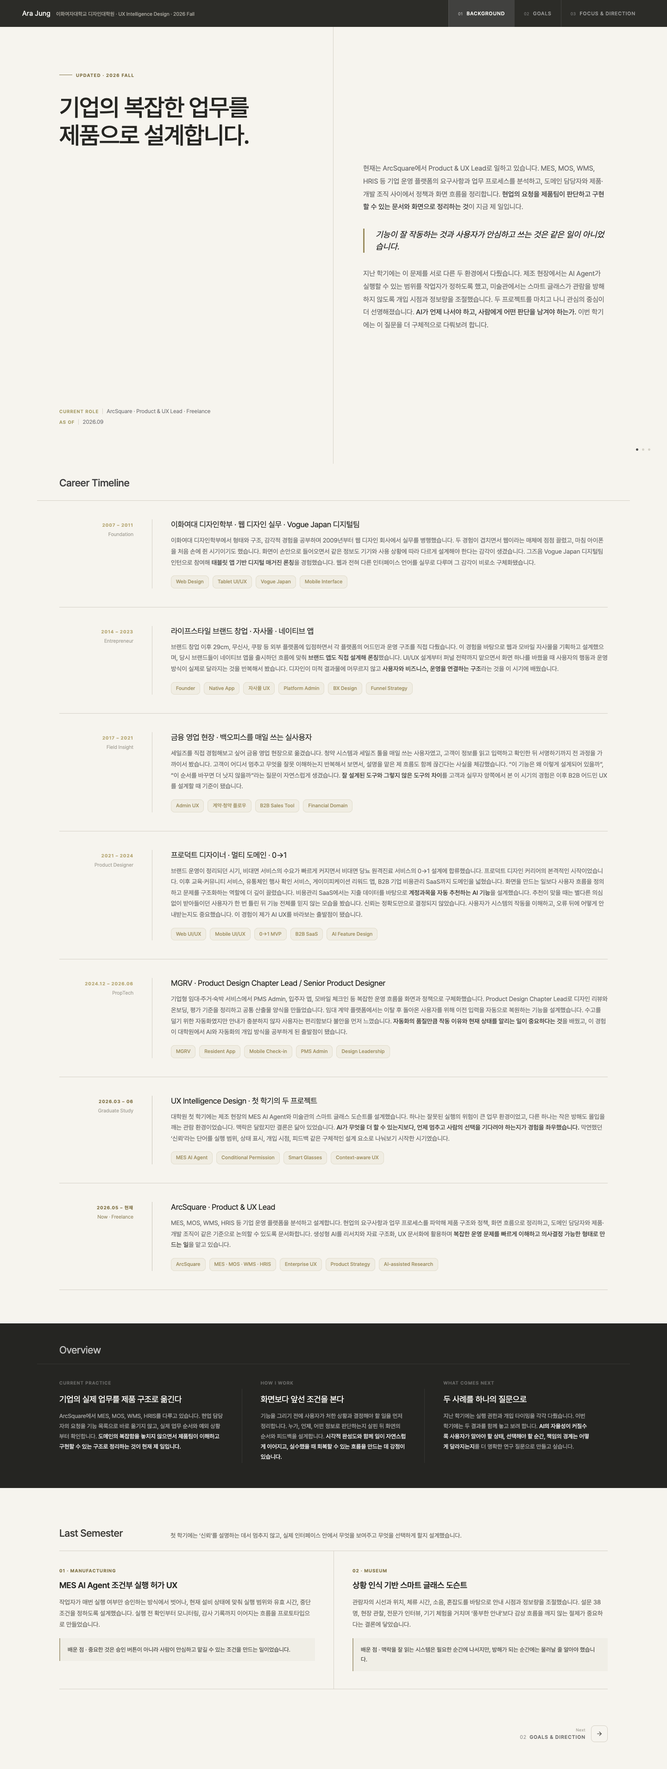
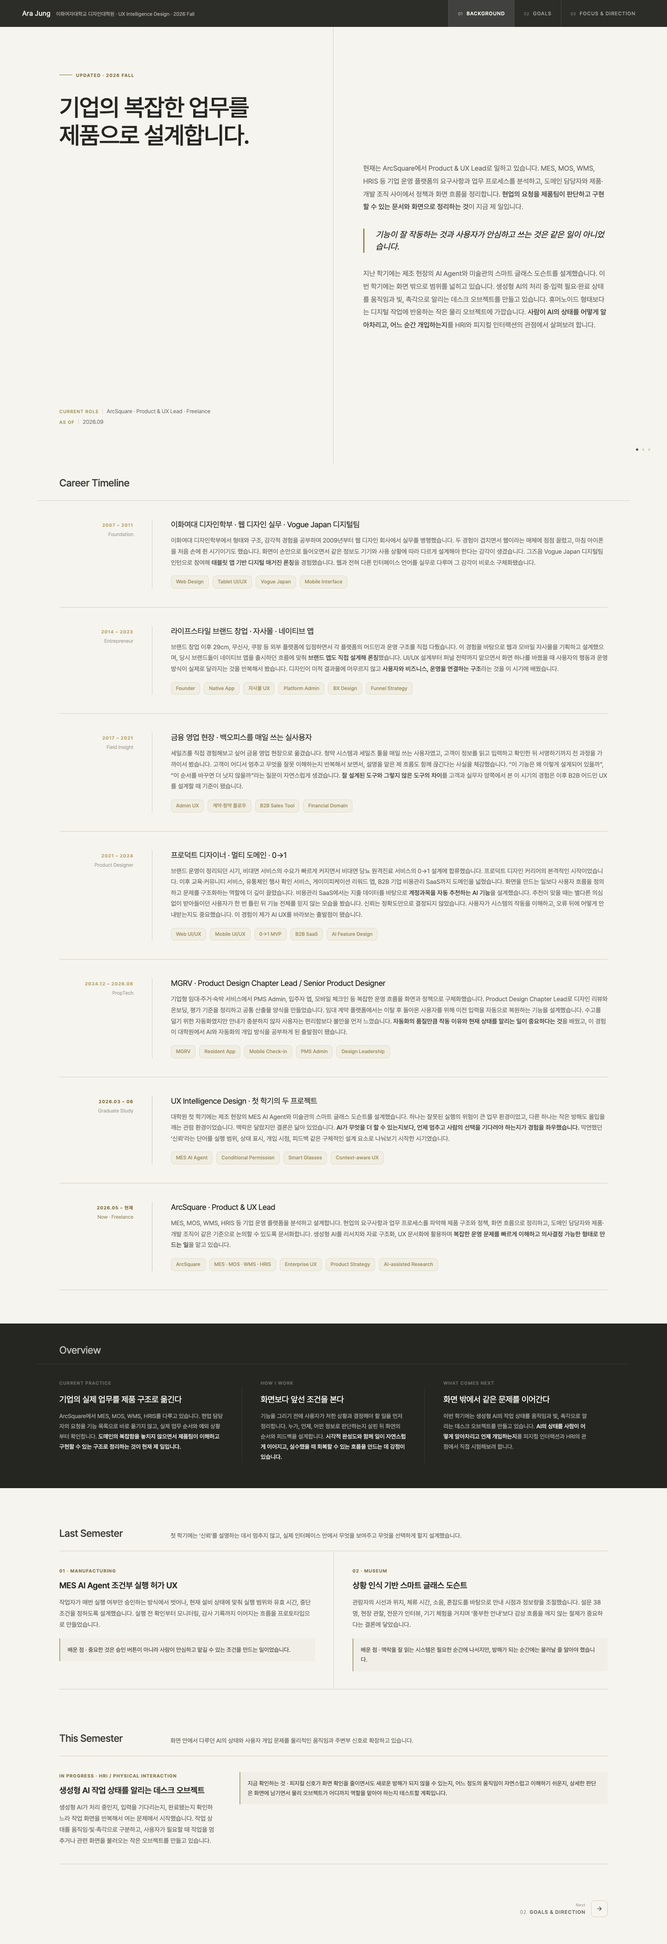
Add robotics and HRI direction

diff --git a/index.html b/index.html
@@ -1206,6 +1206,20 @@
       padding-right: 0;
     }
 
+    .project-update-grid.single { grid-template-columns: 1fr; }
+
+    .project-update-grid.single .project-update {
+      display: grid;
+      grid-template-columns: minmax(220px, .75fr) minmax(0, 1.75fr);
+      gap: 48px;
+      padding-right: 0;
+    }
+
+    .project-update-grid.single .project-learning {
+      margin-top: 0;
+      align-self: start;
+    }
+
     .project-meta {
       margin-bottom: 12px;
       color: var(--accent);
@@ -1295,6 +1309,7 @@
       .project-update-grid { grid-template-columns: 1fr; }
       .project-update, .project-update + .project-update { padding: 28px 0; border-left: 0; }
       .project-update + .project-update { border-top: 1px solid var(--rule); }
+      .project-update-grid.single .project-update { grid-template-columns: 1fr; gap: 18px; }
       .goals-hero, .targets-hero { gap: 24px; padding-top: 52px; }
       .goals-quote { padding: 0 22px 44px; margin-top: 24px; }
       .goals-quote-inner { font-size: 16px; }
@@ -1375,7 +1390,7 @@
         기능이 잘 작동하는 것과 사용자가 안심하고 쓰는 것은 같은 일이 아니었습니다.
       </div>
       <div class="hero-intro">
-        지난 학기에는 이 문제를 서로 다른 두 환경에서 다뤘습니다. 제조 현장에서는 AI Agent가 실행할 수 있는 범위를 작업자가 정하도록 했고, 미술관에서는 스마트 글래스가 관람을 방해하지 않도록 개입 시점과 정보량을 조절했습니다. 두 프로젝트를 마치고 나니 관심의 중심이 더 선명해졌습니다. <strong style="color:#3d3d3d">AI가 언제 나서야 하고, 사람에게 어떤 판단을 남겨야 하는가.</strong> 이번 학기에는 이 질문을 더 구체적으로 다뤄보려 합니다.
+        지난 학기에는 제조 현장의 AI Agent와 미술관의 스마트 글래스 도슨트를 설계했습니다. 이번 학기에는 화면 밖으로 범위를 넓히고 있습니다. 생성형 AI의 처리 중·입력 필요·완료 상태를 움직임과 빛, 촉각으로 알리는 데스크 오브젝트를 만들고 있습니다. 휴머노이드 형태보다는 디지털 작업에 반응하는 작은 물리 오브젝트에 가깝습니다. <strong style="color:#3d3d3d">사람이 AI의 상태를 어떻게 알아차리고, 어느 순간 개입하는지</strong>를 HRI와 피지컬 인터랙션의 관점에서 살펴보려 합니다.
       </div>
     </div>
   </div>
@@ -1551,8 +1566,8 @@
         </div>
         <div class="who-card">
           <div class="who-card-num">What comes next</div>
-          <div class="who-card-title">두 사례를 하나의 질문으로</div>
-          <div class="who-card-body">지난 학기에는 실행 권한과 개입 타이밍을 각각 다뤘습니다. 이번 학기에는 두 결과를 함께 놓고 보려 합니다. <strong style="color:rgba(255,255,255,0.85)">AI의 자율성이 커질수록 사용자가 알아야 할 상태, 선택해야 할 순간, 책임의 경계는 어떻게 달라지는지</strong>를 더 명확한 연구 질문으로 만들고 싶습니다.</div>
+          <div class="who-card-title">화면 밖에서 같은 문제를 이어간다</div>
+          <div class="who-card-body">이번 학기에는 생성형 AI의 작업 상태를 움직임과 빛, 촉각으로 알리는 데스크 오브젝트를 만들고 있습니다. <strong style="color:rgba(255,255,255,0.85)">AI의 상태를 사람이 어떻게 알아차리고 언제 개입하는지</strong>를 피지컬 인터랙션과 HRI의 관점에서 직접 시험해보려 합니다.</div>
         </div>
       </div>
     </div>
@@ -1575,6 +1590,23 @@
         <h3 class="project-title">상황 인식 기반 스마트 글래스 도슨트</h3>
         <p class="project-body">관람자의 시선과 위치, 체류 시간, 소음, 혼잡도를 바탕으로 안내 시점과 정보량을 조절했습니다. 설문 38명, 현장 관찰, 전문가 인터뷰, 기기 체험을 거치며 ‘풍부한 안내’보다 감상 흐름을 깨지 않는 절제가 중요하다는 결론에 닿았습니다.</p>
         <p class="project-learning">배운 점 · 맥락을 잘 읽는 시스템은 필요한 순간에 나서지만, 방해가 되는 순간에는 물러날 줄 알아야 했습니다.</p>
+      </article>
+    </div>
+  </section>
+
+  <section class="semester-section" aria-labelledby="current-semester-title">
+    <div class="semester-section-head">
+      <h2 class="semester-section-title" id="current-semester-title">This Semester</h2>
+      <p class="semester-section-desc">화면 안에서 다루던 AI의 상태와 사용자 개입 문제를 물리적인 움직임과 주변부 신호로 확장하고 있습니다.</p>
+    </div>
+    <div class="project-update-grid single">
+      <article class="project-update">
+        <div>
+          <div class="project-meta">In Progress · HRI / Physical Interaction</div>
+          <h3 class="project-title">생성형 AI 작업 상태를 알리는 데스크 오브젝트</h3>
+          <p class="project-body">생성형 AI가 처리 중인지, 입력을 기다리는지, 완료됐는지 확인하느라 작업 화면을 반복해서 여는 문제에서 시작했습니다. 작업 상태를 움직임·빛·촉각으로 구분하고, 사용자가 필요할 때 작업을 멈추거나 관련 화면을 불러오는 작은 오브젝트를 만들고 있습니다.</p>
+        </div>
+        <p class="project-learning">지금 확인하는 것 · 피지컬 신호가 화면 확인을 줄이면서도 새로운 방해가 되지 않을 수 있는지, 어느 정도의 움직임이 자연스럽고 이해하기 쉬운지, 상세한 판단은 화면에 남기면서 물리 오브젝트가 어디까지 역할을 맡아야 하는지 테스트할 계획입니다.</p>
       </article>
     </div>
   </section>
@@ -1604,14 +1636,14 @@
       지난 학기의 작업을<br />다음 질문으로 이어갑니다.
     </h1>
     <div class="goals-intro">
-      첫 학기를 시작할 때는 AI가 개입하는 경험에서 신뢰가 어떻게 생기는지 알고 싶었습니다. 두 프로젝트를 끝낸 지금은 질문이 조금 더 구체적입니다. 제조 현장에서는 실행 범위와 책임의 경계가 중요했고, 미술관에서는 개입 시점과 절제가 중요했습니다. <strong style="color:#3d3d3d">이번 학기에는 이 차이를 비교하면서 상황에 따라 달라지는 AI 개입의 기준을 정리해보려 합니다.</strong>
+      첫 학기에는 AI가 개입하는 경험에서 신뢰가 어떻게 생기는지 살펴봤습니다. 제조 현장에서는 실행 범위와 책임의 경계가 중요했고, 미술관에서는 개입 시점과 절제가 중요했습니다. 이번 학기에는 질문을 화면 밖으로 가져갑니다. <strong style="color:#3d3d3d">생성형 AI의 상태를 물리적인 움직임으로 알리고 사람이 필요할 때 개입하는 데스크 오브젝트를 만들며, HRI와 피지컬 인터랙션을 직접 다뤄보려 합니다.</strong>
     </div>
   </div>
 
   <div class="goals-quote">
     <div class="goals-quote-spacer"></div>
     <div class="goals-quote-inner">
-좋은 자동화는 모든 일을 대신하지 않습니다. 사람이 판단해야 할 순간을 알아볼 수 있게 남겨둡니다.
+AI가 화면 밖으로 나오면, 상태를 알리는 방식과 사람이 개입하는 방법도 달라져야 합니다.
     </div>
   </div>
 
@@ -1628,23 +1660,23 @@
       <div class="timeline-line"></div>
       <div class="timeline-content">
         <div class="goal-label" style="color:#b8aa78">This Semester · 2026 Fall</div>
-        <div class="timeline-title">두 프로젝트에서 나온 기준을 하나의 연구 질문으로 묶기</div>
+        <div class="timeline-title">화면 밖에서 AI의 상태와 사용자 개입을 설계하기</div>
         <div class="timeline-body">
-          MES AI Agent에서는 실행 범위, 유효 시간, 중단 조건을 직접 정하게 했습니다. 스마트 글래스 도슨트에서는 시선과 체류 시간, 소음과 혼잡도에 따라 안내 강도를 조절했습니다. 이번 학기에는 두 결과를 나란히 놓고 <strong>업무의 위험도와 사용자의 몰입 상태에 따라 필요한 통제와 피드백이 어떻게 달라지는지</strong> 정리할 계획입니다. 실무에서 겪는 자동화 사례도 같은 틀로 기록해보려 합니다.
+          생성형 AI의 작업 상태를 확인하느라 화면을 반복해서 여는 문제에서 시작했습니다. 처리 중·입력 필요·완료·오류 상태를 작은 움직임과 빛, 촉각으로 구분하고, 필요할 때 작업을 멈추거나 관련 화면을 불러오는 오브젝트를 만들고 있습니다. <strong>피지컬 신호가 화면 확인을 줄이면서도 새로운 방해가 되지 않을 수 있는지</strong>, 로봇과 사람 사이에서 상태와 개입 권한을 어떻게 나눌지 테스트할 계획입니다.
         </div>
         <div class="timeline-tags">
-          <span class="ttag">두 사례 비교</span>
-          <span class="ttag">개입 수준 정리</span>
-          <span class="ttag">상태·경계·피드백</span>
-          <span class="ttag">실무 사례 기록</span>
+          <span class="ttag">Human-Robot Interaction</span>
+          <span class="ttag">Physical Interaction</span>
+          <span class="ttag">Ambient Feedback</span>
+          <span class="ttag">Embodied AI</span>
         </div>
         <div class="goal-actions-grid" style="margin-top:16px">
           <div class="goal-action-block">
             <div class="goal-action-label">Related Research</div>
             <div class="goal-action-chips research-list">
-              <span class="goal-action-item research"><a href="https://arxiv.org/abs/2302.02187" target="_blank" rel="noopener">Appropriate Reliance on AI Advice (Schemmer et al., 2023)</a></span>
-              <span class="goal-action-item research"><a href="https://arxiv.org/abs/2110.10790" target="_blank" rel="noopener">Human-Centered Explainable AI (Liao & Varshney, 2021)</a></span>
-              <span class="goal-action-item research"><a href="https://journals.sagepub.com/doi/10.1518/hfes.46.1.50_30392" target="_blank" rel="noopener">Trust in Automation (Lee & See, 2004)</a></span>
+              <span class="goal-action-item research"><a href="https://www.microsoft.com/en-us/research/publication/ai-at-your-fingertips-wearable-ring-as-a-low-friction-interface-for-agentic-ai/" target="_blank" rel="noopener">AI at your Fingertips (Microsoft Research)</a></span>
+              <span class="goal-action-item research"><a href="https://arxiv.org/abs/2602.16844" target="_blank" rel="noopener">Overseeing Agents Without Constant Oversight</a></span>
+              <span class="goal-action-item research"><a href="https://arxiv.org/abs/2507.22358" target="_blank" rel="noopener">Magentic-UI: Towards Human-in-the-loop Agentic Systems</a></span>
             </div>
           </div>
         </div>
@@ -1661,7 +1693,7 @@
         <div class="goal-label" style="color:#998c5d">Next Step · Mid-term</div>
         <div class="timeline-title">AI가 개입하는 제품을 팀 단위로 설계할 수 있는 디자이너</div>
         <div class="timeline-body">
-          제품에 AI 기능 하나를 더하는 일보다, 팀이 같은 기준으로 기능의 범위와 실패 상황을 판단하게 만드는 일에 관심이 있습니다. 어떤 결정은 AI에 맡기고 어떤 결정은 사람에게 남길지, 잘못됐을 때 어떻게 알리고 되돌릴지를 기획과 개발 단계부터 함께 다루고 싶습니다. <strong>개인의 감각에 머물던 판단을 팀이 함께 사용할 수 있는 원칙과 리뷰 기준으로 만드는 것</strong>이 중기 목표입니다.
+          화면 속 AI 기능뿐 아니라 로봇과 반응형 오브젝트처럼 물리적으로 존재하는 인터페이스까지 다루고 싶습니다. 어떤 결정은 시스템에 맡기고 어떤 순간에는 사람을 불러야 하는지, 잘못됐을 때 어떻게 알리고 멈출지를 기획과 개발 단계부터 함께 살펴보려 합니다. <strong>개인의 감각에 머물던 판단을 팀이 함께 사용할 수 있는 원칙과 리뷰 기준으로 만드는 것</strong>이 중기 목표입니다.
         </div>
         <div class="timeline-tags">
           <span class="ttag">AI UX 리뷰 기준</span>
@@ -1690,15 +1722,15 @@
       <div class="timeline-line"></div>
       <div class="timeline-content">
         <div class="goal-label" style="color:#695e43">Long-term · Research</div>
-        <div class="timeline-title">실무에서 찾은 문제를 Human-AI Interaction 연구로 이어가기</div>
+        <div class="timeline-title">실무에서 찾은 문제를 Human-AI Interaction과 HRI 연구로 이어가기</div>
         <div class="timeline-body">
-          실무에서 반복해서 만난 장면을 경험담으로만 남기고 싶지는 않습니다. AI가 실행을 제안하거나 먼저 행동할 때, 사람의 신뢰와 통제감이 어떤 조건에서 달라지는지 연구하고 싶습니다. 박사과정에서는 <strong>AI가 개입하는 의사결정, 설명 가능한 인터페이스, 화면이 줄어든 환경의 피드백 방식</strong>을 다루고, 그 결과를 다시 실제 제품에 적용하는 일을 이어가고 싶습니다.
+          실무에서 반복해서 만난 장면을 경험담으로만 남기고 싶지는 않습니다. AI Agent나 로봇이 먼저 행동할 때 사람이 상태를 어떻게 이해하고, 어느 순간 개입하며, 책임의 경계를 어디에 두는지 연구하고 싶습니다. 박사과정에서는 <strong>Human-AI Interaction, HRI, Embodied AI, 화면이 줄어든 환경의 피드백 방식</strong>을 다루고, 그 결과를 다시 실제 제품과 프로토타입에 적용하는 일을 이어가고 싶습니다.
         </div>
         <div class="timeline-tags">
           <span class="ttag">Human-AI Interaction</span>
-          <span class="ttag">설명과 통제감</span>
+          <span class="ttag">Human-Robot Interaction</span>
+          <span class="ttag">Embodied AI</span>
           <span class="ttag">연구 질문 구체화</span>
-          <span class="ttag">박사과정 준비</span>
         </div>
         <div class="goal-actions-grid" style="margin-top:16px">
           <div class="goal-action-block">
@@ -1745,16 +1777,16 @@
 <div class="page" id="targets">
 
   <div class="targets-hero">
-    <h1 class="targets-headline">언제 개입하고,<br />어디까지 맡길 것인가.</h1>
+    <h1 class="targets-headline">AI Agent와 로봇의<br />사용자 경험을 연구합니다.</h1>
     <div class="goals-intro">
-      지난 학기의 두 프로젝트는 AI가 사람보다 먼저 보고 판단하는 상황을 다뤘습니다. 제조 현장에서는 잘못된 실행을 막을 경계가 필요했고, 미술관에서는 지나친 안내를 막을 절제가 필요했습니다. <strong style="color:#3d3d3d">앞으로도 기술의 능력보다, 그 능력을 사람이 편안하게 받아들일 수 있는 조건을 설계하고 싶습니다.</strong>
+      제조 현장의 AI Agent, 미술관의 스마트 글래스, 이번 학기의 데스크 오브젝트는 형태가 서로 다릅니다. 하지만 시스템이 먼저 움직일 때 사람이 그 상태를 알아차리고 필요하면 개입해야 한다는 점은 같습니다. <strong style="color:#3d3d3d">화면 속 인터페이스뿐 아니라 움직임과 거리, 빛과 촉각으로 소통하는 로봇과 피지컬 AI까지 관심을 넓히고 있습니다.</strong>
     </div>
   </div>
 
   <div class="goals-quote">
     <div class="goals-quote-spacer"></div>
     <div class="goals-quote-inner">
-설명은 많을수록 좋은 게 아니었습니다. 필요한 순간에, 판단에 필요한 만큼 보여주는 편이 더 나았습니다.
+로봇은 꼭 사람 모양일 필요가 없습니다. 상태를 드러내고 사람이 개입할 수 있게 만드는 것도 중요한 HRI 문제입니다.
     </div>
   </div>
 
@@ -1791,8 +1823,8 @@
             <line x1="7.5" y1="8.5" x2="12.5" y2="8.5"/><line x1="7.5" y1="11.5" x2="11" y2="11.5"/>
           </svg>
         </div>
-        <div class="focus-cell-title">Understandable Feedback</div>
-        <div class="focus-cell-desc">사용자에게 필요한 것은 모델의 모든 설명이 아니라 지금 무슨 일이 일어났고, 왜 이런 결과가 나왔으며, 다음에 무엇을 할 수 있는지에 대한 답입니다. 복잡한 작동 원리를 판단에 필요한 정보로 바꾸고, 실패했을 때 회복할 수 있는 흐름을 설계합니다.</div>
+        <div class="focus-cell-title">HRI & Embodied Interaction</div>
+        <div class="focus-cell-desc">로봇과 반응형 오브젝트가 의도와 상태를 움직임으로 어떻게 드러내는지, 사람은 그 신호를 어떻게 해석하고 반응하는지에 관심이 있습니다. 사람처럼 보이는 형태보다 역할과 거리, 움직임, 개입 방법이 관계를 어떻게 만드는지 살펴봅니다.</div>
       </div>
       <div class="focus-cell">
         <div class="focus-cell-icon">
@@ -1804,8 +1836,8 @@
             <path d="M4.93 19.07a10 10 0 0 1 0-14.14"/>
           </svg>
         </div>
-        <div class="focus-cell-title">Multimodal & Ambient UX</div>
-        <div class="focus-cell-desc">화면이 작아지거나 사라지면 피드백은 더 신중해야 합니다. 시각, 음성, 촉각 가운데 어느 채널을 쓸지, 얼마나 강하게 알릴지, 사용자가 개입을 거절하는 방법은 무엇인지 살펴봅니다. 스마트 글래스 프로젝트에서 시작한 질문을 생활 공간과 업무 환경으로 넓혀보고 싶습니다.</div>
+        <div class="focus-cell-title">Physical & Ambient Feedback</div>
+        <div class="focus-cell-desc">화면이 작아지거나 사라지면 상태를 알리는 방식이 달라져야 합니다. 움직임, 빛, 음성, 촉각 가운데 어떤 신호가 적절한지, 어느 정도의 강도가 방해 없이 알아차릴 수 있는 수준인지 직접 만들고 테스트합니다.</div>
       </div>
     </div>
   </div>
@@ -1861,19 +1893,20 @@ Google PAIR의 People + AI Guidebook은 AI 기능을 설계할 때 제가 자주
     <div class="org-row c3">
       <div class="org-index">
         <div class="org-index-mark">03</div>
-        <div class="org-index-name">HCI Research /<br />Human-Centered AI</div>
+        <div class="org-index-name">HCI / HRI Research</div>
       </div>
       <div class="org-main">
         <div class="org-main-body" style="margin-bottom:0">
-          장기적으로는 AI가 개입하는 의사결정과 자동화 수용의 조건을 HCI, 인지심리학, 행동과학의 관점에서 공부하고 싶습니다. 실무에서 ‘사용자가 불안해했다’고 기록한 장면을 연구에서는 관찰하고 비교할 수 있는 질문으로 바꾸고, 왜 그런 반응이 생겼는지 설명할 수 있는 근거를 쌓으려 합니다.
+          장기적으로는 AI가 개입하는 의사결정과 자동화 수용의 조건을 HCI와 HRI, 인지심리학, 행동과학의 관점에서 공부하고 싶습니다. 화면 속 Agent뿐 아니라 물리적으로 움직이고 공간을 공유하는 로봇까지 범위를 넓혀, 사람의 신뢰와 개입 방식이 어떻게 달라지는지 연구하고 싶습니다.
         </div>
         <div class="org-main-tags">
           <span class="org-badge">HCI Research</span>
+          <span class="org-badge">HRI</span>
           <span class="org-badge">PhD Path</span>
         </div>
         <div class="org-contrib" style="margin-top:20px">
           <div class="org-contrib-label">How I am preparing</div>
-          <div class="org-contrib-body">대학원 프로젝트와 실무 사례를 같은 질문으로 기록하고, 관련 논문을 읽으며 연구 방법을 익히고 있습니다. 이 기록을 쌓아 장기적으로 박사과정 지원까지 이어갈 계획입니다.</div>
+          <div class="org-contrib-body">대학원에서 AI 작업 상태를 표현하는 피지컬 오브젝트를 만들며 HRI 사례와 사용자 개입 방식을 조사하고 있습니다. 실무 사례와 프로토타입 기록을 쌓아 장기적으로 박사과정 지원까지 이어갈 계획입니다.</div>
         </div>
       </div>
     </div>
@@ -1886,10 +1919,11 @@ Google PAIR의 People + AI Guidebook은 AI 기능을 설계할 때 제가 자주
       <div class="org-main">
         <div class="org-main-title">연구와 실제 시스템 설계가 가까이 있는 환경</div>
         <div class="org-main-body">
-          CMU HCII는 사람과 기술의 관계를 연구하면서 결과를 실제 시스템과 프로토타입으로 검증하는 환경이라는 점이 매력적입니다. 저 역시 현장에서 반복해서 본 문제를 <strong>관찰하고 검증할 수 있는 연구 질문</strong>으로 바꾸고 싶습니다. Human-AI Interaction과 설명 가능한 인터페이스를 공부할 때 계속 참고하고 싶은 기준점입니다.
+          CMU HCII는 사람과 기술의 관계를 연구하면서 결과를 실제 시스템과 프로토타입으로 검증한다는 점이 매력적입니다. 저 역시 현장에서 반복해서 본 문제를 <strong>관찰하고 검증할 수 있는 연구 질문</strong>으로 바꾸고 싶습니다. Human-AI Interaction뿐 아니라 HRI와 로보틱스가 만나는 연구를 공부할 때 계속 참고하고 싶은 기준점입니다.
         </div>
         <div class="org-main-tags">
           <span class="org-badge">Human-AI Interaction</span>
+          <span class="org-badge">HRI + Robotics</span>
           <span class="org-badge">Research + Systems</span>
         </div>
       </div>
@@ -1933,6 +1967,28 @@ Google PAIR의 People + AI Guidebook은 AI 기능을 설계할 때 제가 자주
       </div>
     </div>
 
+    <div class="org-row c4">
+      <div class="org-index">
+        <div class="org-index-mark">05</div>
+        <div class="org-index-name">Robotics / Embodied AI<br />Labs &amp; Product Teams</div>
+      </div>
+      <div class="org-main">
+        <div class="org-main-title">사람과 공간을 공유하는 AI를 실제 제품으로 만드는 환경</div>
+        <div class="org-main-body">
+          로봇과 피지컬 AI는 화면 속 인터페이스와 달리 움직임, 거리, 방향, 소리 자체가 피드백이 됩니다. 휴머노이드 형태에 한정하지 않고, 산업 현장이나 생활 공간에서 사람과 함께 일하는 시스템을 설계해보고 싶습니다. <strong>로봇의 상태와 의도를 사람이 자연스럽게 읽고 필요할 때 멈추거나 개입하는 경험</strong>이 특히 궁금합니다.
+        </div>
+        <div class="org-main-tags">
+          <span class="org-badge">Human-Robot Interaction</span>
+          <span class="org-badge">Embodied AI</span>
+          <span class="org-badge">Physical Interaction</span>
+        </div>
+        <div class="org-contrib">
+          <div class="org-contrib-label">What I want to build</div>
+          <div class="org-contrib-body">화면 중심 제품에서 익힌 상태와 권한 설계를 움직임·빛·촉각으로 확장하고, 실제 환경에서 사람이 이해하고 제어할 수 있는 로봇 경험을 만들고 싶습니다.</div>
+        </div>
+      </div>
+    </div>
+
   </div>
 
   <div class="direction-section">
@@ -1941,7 +1997,7 @@ Google PAIR의 People + AI Guidebook은 AI 기능을 설계할 때 제가 자주
     </div>
     <div class="who-inner" style="padding-top:32px; padding-bottom:56px;">
       <div class="direction-body">
-        첫 학기 전에는 ‘신뢰’를 넓고 추상적으로 이야기했습니다. 두 프로젝트를 거치며 이제는 실행 범위, 개입 시점, 상태 표시, 되돌리기처럼 실제로 설계하고 확인할 수 있는 단위로 질문하게 됐습니다. 이번 학기에는 이 기준을 더 단단하게 만들겠습니다. 실무에서 문제를 발견하고, 연구로 이유를 확인한 뒤, 다시 제품에서 써보는 일을 오래 이어가는 <strong>실무자이자 연구자</strong>가 되고 싶습니다.
+        첫 학기에는 화면 안에서 AI의 실행 범위와 개입 시점을 다뤘습니다. 이번 학기에는 같은 문제를 물리적인 움직임과 주변부 신호로 옮겨보고 있습니다. 앞으로는 제품 UX에서 쌓은 경험을 HRI와 로보틱스로 넓혀, AI나 로봇이 먼저 행동할 때 사람이 상태를 이해하고 필요하면 개입할 수 있는 방식을 연구하고 싶습니다. 실무에서 문제를 찾고 프로토타입으로 시험한 뒤 연구로 이유를 확인하는 <strong>실무자이자 연구자</strong>가 되는 것이 장기적인 방향입니다.
       </div>
     </div>
   </div>
